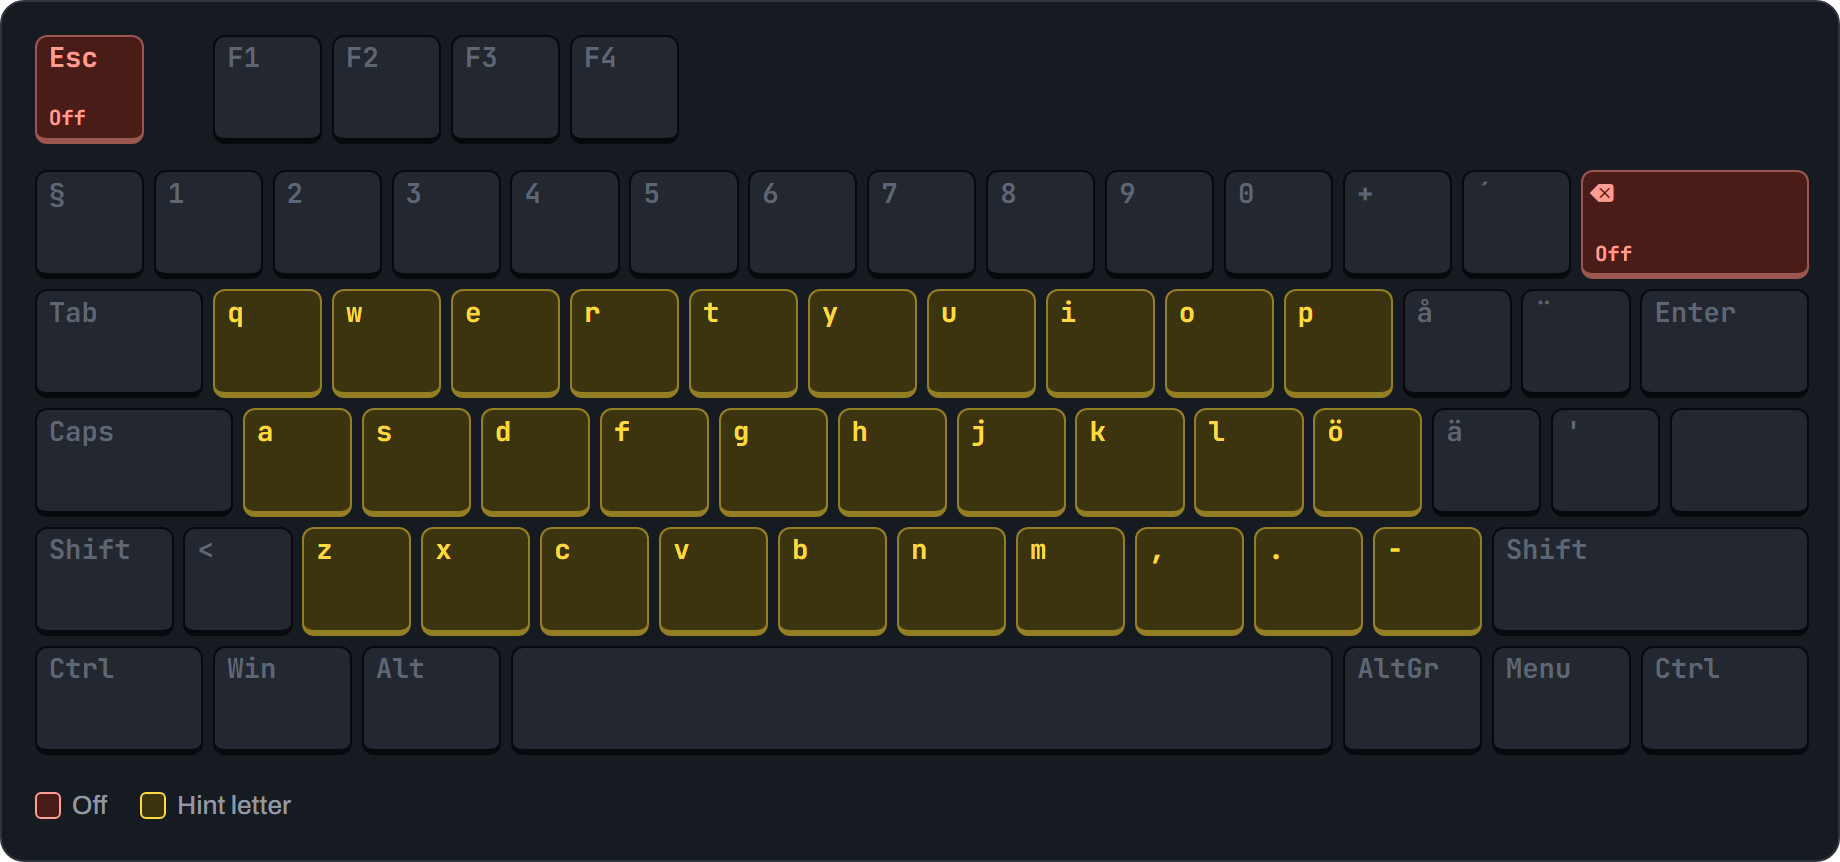
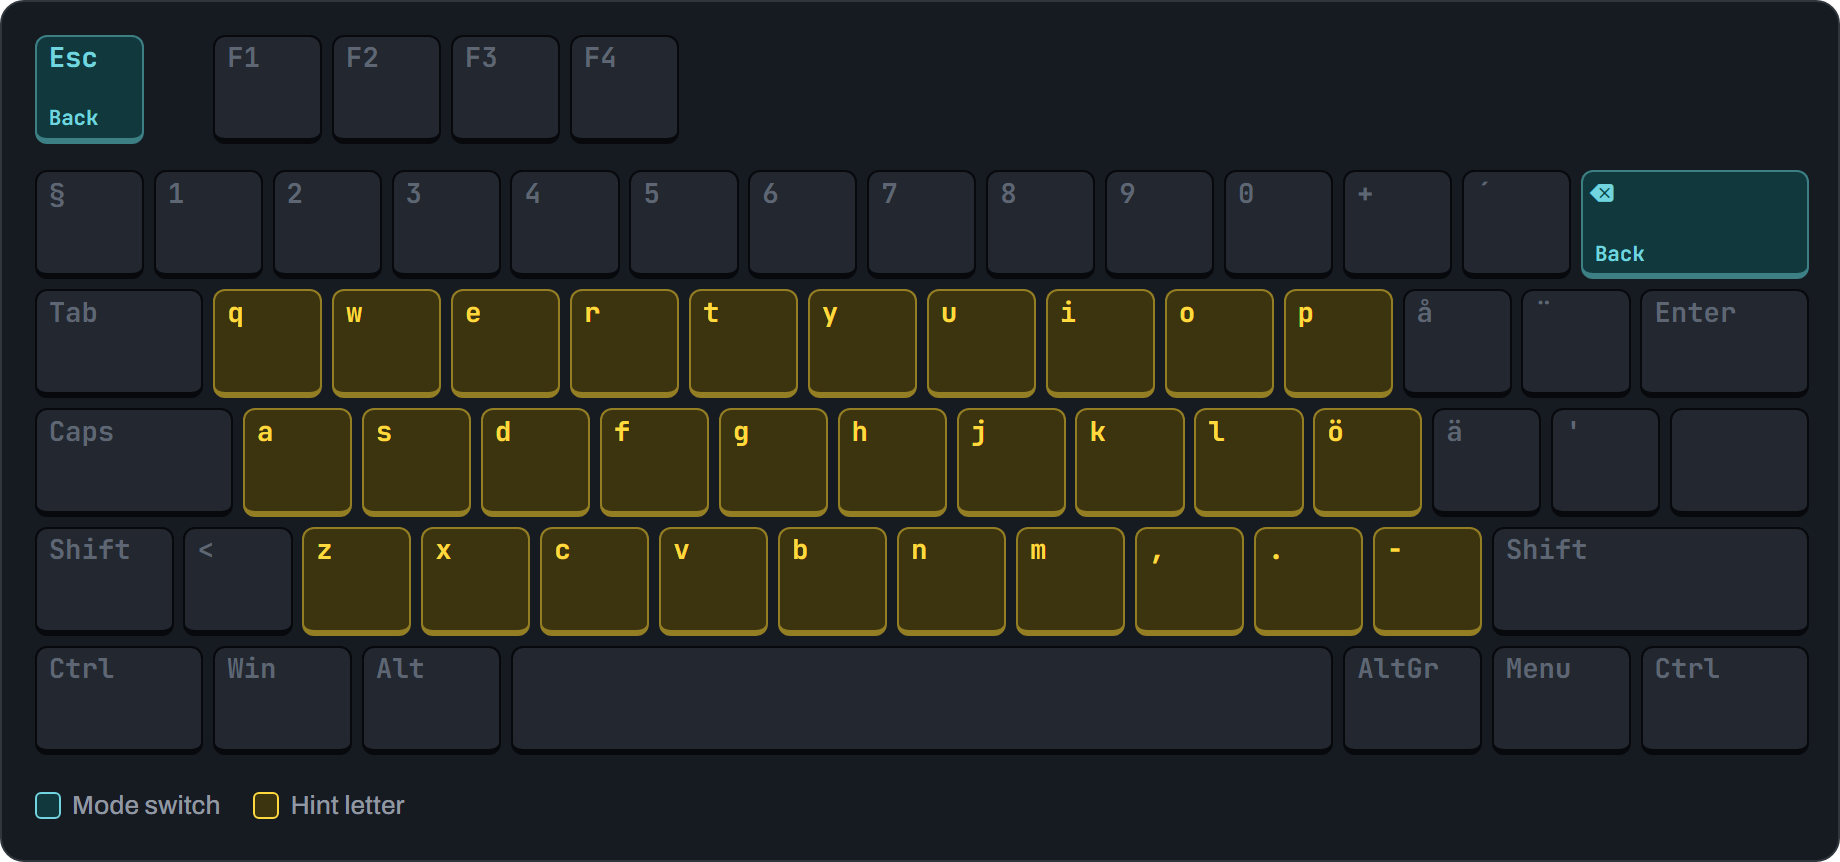
Open UI hints with Ctrl+Alt+Backspace and draw them with a gradient
Ctrl+Alt+Backspace goes straight from off to UI hints, next to
Alt+Backspace (on) and Shift+Alt+Backspace (grid hints). UI hint boxes
use a gradient from orange in the middle of the window to blue at the
edges.

The README and the UI hints and Off keyboard images show the new combo,
and that Esc and backspace in UI hints go back to the previous mode.

Changed region(s): [[0.8364, 0.181, 0.9913, 0.3318], [0.0, 0.0302, 0.0929, 0.181], [0.0, 0.9049, 0.2168, 0.9652]]

diff --git a/images/keyboard.html b/images/keyboard.html
@@ -277,8 +277,9 @@
             const MODES = {
                 off: {
                     lalt: ["mode", "Hold+⌫: on"],
-                    bksp: ["mode", "Alt+⌫: on Shift+Alt+⌫: hints"],
+                    bksp: ["mode", "Alt+⌫: on"],
                     lshift: ["mode", "+Alt+⌫: hints"],
+                    lctrl: ["mode", "+Alt+⌫: UI hints"],
                     tab: ["nav", "Hold+h/l: desktop"],
                     h: ["nav", "Tab+h: Desk ←"],
                     l: ["nav", "Tab+l: Desk →"],
@@ -352,8 +353,8 @@
                 },
                 ui: {
                     ...hintKeys(HINT1),
-                    esc: ["exit", "Off"],
-                    bksp: ["exit", "Off"],
+                    esc: ["mode", "Back"],
+                    bksp: ["mode", "Back"],
                 },
             };
 

diff --git a/README.md b/README.md
@@ -15,7 +15,7 @@ cd C:\Apps\mousemaster
 
 | Turn on | Turn off | Turn off, and the key still reaches the app |
 |---|---|---|
-| Hold <kbd>Left Alt</kbd>, press <kbd>⌫</kbd><br>Add <kbd>Shift</kbd> to start in hints | <kbd>q</kbd> <kbd>p</kbd> <kbd>Esc</kbd> <kbd>Alt</kbd>+<kbd>⌫</kbd><br><kbd>.</kbd> clicks, then turns off | <kbd>Ctrl</kbd>+<kbd>F</kbd> <kbd>Ctrl</kbd>+<kbd>L</kbd> <kbd>Ctrl</kbd>+<kbd>E</kbd><br><kbd>F2</kbd> <kbd>F3</kbd> <kbd>/</kbd> |
+| Hold <kbd>Left Alt</kbd>, press <kbd>⌫</kbd><br>Add <kbd>Shift</kbd> to start in hints<br>Add <kbd>Ctrl</kbd> to start in UI hints | <kbd>q</kbd> <kbd>p</kbd> <kbd>Esc</kbd> <kbd>Alt</kbd>+<kbd>⌫</kbd><br><kbd>.</kbd> clicks, then turns off | <kbd>Ctrl</kbd>+<kbd>F</kbd> <kbd>Ctrl</kbd>+<kbd>L</kbd> <kbd>Ctrl</kbd>+<kbd>E</kbd><br><kbd>F2</kbd> <kbd>F3</kbd> <kbd>/</kbd> |
 
 Indicator next to the pointer: 🔴 on · 🟡 scrolling · 🟢 button held.
 
@@ -81,7 +81,7 @@ Arrow keys do the same as <kbd>h</kbd> <kbd>j</kbd> <kbd>k</kbd> <kbd>l</kbd> fo
 | **Hints** | <kbd>f</kbd>, or <kbd>Shift</kbd>+<kbd>Alt</kbd>+<kbd>⌫</kbd> from off | type a label to jump there · hold <kbd>Shift</kbd> on the last letter for fine hints | pick a hint · <kbd>Esc</kbd> <kbd>⌫</kbd> |
 | **Fine hints** | <kbd>Shift</kbd> + last hint letter | smaller grid around that spot, zoomed 5× | pick a hint · <kbd>Esc</kbd> back · <kbd>⌫</kbd> to hints |
 | **Screens** | <kbd>c</kbd> | <kbd>j</kbd> <kbd>k</kbd> <kbd>l</kbd> <kbd>ö</kbd> <kbd>a</kbd> <kbd>s</kbd> … jump to that monitor | <kbd>c</kbd> <kbd>Esc</kbd> <kbd>⌫</kbd> back · <kbd>q</kbd> <kbd>p</kbd> off |
-| **UI hints** | <kbd>Alt</kbd>+<kbd>f</kbd> | type a label on a button or link to jump to it | pick a hint · <kbd>Esc</kbd> <kbd>⌫</kbd> off |
+| **UI hints** | <kbd>Alt</kbd>+<kbd>f</kbd>, or <kbd>Ctrl</kbd>+<kbd>Alt</kbd>+<kbd>⌫</kbd> from off | type a label on a button or link to jump to it | pick a hint · <kbd>Esc</kbd> <kbd>⌫</kbd> back |
 
 - **Edge** snaps to an invisible box 80% wide and 95% tall in the middle of the screen, not the outermost pixel. Click keys still work, so Ctrl-click is available here.
 - **Window** puts its top edge 15 px into the window, on the title bar, so you can grab it and drag.
